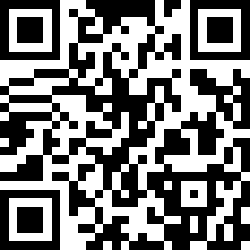
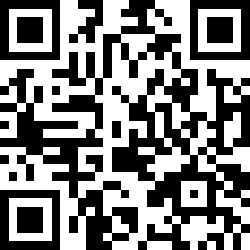
fix: 🐛 Aspside camp links (#16)

diff --git a/ai-as-lib/apside-camp-2024/index.html b/ai-as-lib/apside-camp-2024/index.html
@@ -1,4 +1,4 @@
-<!doctype html><html lang=en><head><meta charset=UTF-8><meta name=viewport content="width=device-width,initial-scale=1"><link rel="shortcut icon" href=./favicon.svg sizes=any type=image/svg+xml><title>👨💻 Utiliser l'IA<br>aussi simplement qu'une librairie 🤖</title><link rel=stylesheet href=slidesk.css><link href=./plugins/steps/steps.css rel=stylesheet><link href=./plugins/progress/progress.css rel=stylesheet><link href=./plugins/sbs/sbs.css rel=stylesheet><link href=./plugins/footer/footer.css rel=stylesheet><link href=./plugins/animate/animate.css rel=stylesheet><link rel=stylesheet href=assets/css/custom.css></head><body class=sd-app><section class="sd-slide cover-slide" data-num=0 data-slug=!slide-0><h2></h2><h1>👨💻 Utiliser l'IA<br>aussi simplement qu'une librairie 🤖</h1></section><section class="sd-slide love" data-num=1 data-slug=merciii-><h2>Merciii !!!</h2><div class="full-image-author love-image-author"><a href=https://unsplash.com/fr/@bel2000a>Belinda Fewings</a></div></section><section class="sd-slide slide-text" data-num=2 data-slug=faisons-connaissance><h2>Faisons connaissance</h2><p></p><figure class=sd-img style=float:right;margin-top:-16vh><img src=assets/images/phone-qr-code.png loading=lazy alt="" width=300><figcaption style=display:none></figcaption></figure><p></p><h1 style=margin:0;position:absolute;top:50%;left:50%;-ms-transform:translate(-50%,-50%);transform:translate(-50%,-50%)><a href="https://wall.sli.do/event/kFpTN3JaLxj8JQBaBAvgLe?section=26fa937e-d88d-4f16-b165-f51de804df6d">📊</a></h1></section><section class="sd-slide slide-text" data-num=3 data-slug=stphane-philippart><h2>Stéphane Philippart</h2><p></p><figure class=sd-img style=float:right;margin-top:-16vh><img src=assets/images/whoami.png loading=lazy alt="" width=494 height=155><figcaption style=display:none></figcaption></figure><p></p><ul><li>🏷 🥑 DeveloperAdvocate@OVHCloud 🦄</li><li>🏷 Co-créateur de TADx (meetups à Tours)</li><li>🏷 … et ex Apside Top !</li></ul><p></p><figure class=sd-img style=float:right;margin-top:-9vh><img src=assets/images/tadx.png loading=lazy alt=tadx width=304 height=165><figcaption style=display:none>tadx</figcaption></figure><p></p><ul><li>☕ Développeur Java dans les nuages ☁</li></ul><p></p><figure class=sd-img style=float:right><img src=assets/images/ours.png loading=lazy alt=ours width=437 height=414><figcaption style=display:none>ours</figcaption></figure><p></p><ul><li>🐦 <span class=twitter>@wildagsx</span></li><li>🔗 <a href=https://philippart-s.github.io/blog>https://philippart-s.github.io/blog</a></li><li>🐙 <a href=https://github.com/philippart-s/ >https://github.com/philippart-s/</a></li><li>💬 <a href=https://www.linkedin.com/in/philippartstephane/ >https://www.linkedin.com/in/philippartstephane/</a></li></ul></section><section class="sd-slide slide-text sbs" data-num=4 data-slug=un-chatbot-avec-plusieurs-langages><h2>Un chatbot … avec plusieurs langages</h2><p></p><figure class=sd-img style=display:block;margin-left:auto;margin-right:auto;width:50%><img src=assets/images/demos-archi.png loading=lazy alt="" width=1024><figcaption style=display:none></figcaption></figure><p></p><div style=display:flex;align-items:center><div style=flex-basis:65%><ul style=width:100%><li><div class=step>🛑 Chatbot bloquant</div></li><li><div class=step>💬 Chatbot "streaming"</div></li><li><div class=step>🧠 Chatbot avec mémoire</div></li><li><div class=step>🗃 Retrieval Augmented Generation</div></li></ul></div><div style=flex-basis:35% class=step>mais pas que ... 🤫</div></div></section><section class="sd-slide slide-text steps" data-num=5 data-slug=langchain><h2>LangChain</h2><p></p><figure class=sd-img style=float:right;margin-top:-16vh><img src=assets/images/LangChain-logo.png loading=lazy alt="" width=300><figcaption style=display:none></figcaption></figure><p></p><ul><li>✨ Le projet d'origine : LangChain</li><li>🐍 Technologies: Python et Javascript</li><li>🧩 SDK / Library</li><li>🧑💻 Faciliter l'adoption des LLM par les développeuses et développeurs</li><li>🔗 Accéder aux modèles à travers des API</li><li>🧰 Prompt templating, RAG, …</li></ul></section><section class="sd-slide slide-text steps" data-num=6 data-slug=langchain4j><h2>LangChain4J</h2><p></p><figure class=sd-img style=float:right;margin-top:-16vh><img src=assets/images/langchain4j-logo.svg loading=lazy alt="" width=300><figcaption style=display:none></figcaption></figure><p></p><ul><li>🔀 Variante du projet d'origine (il existe d'autres variantes comme LangChainGo)</li><li>🤝 Pas de lien avec la communauté LangChain</li><li>🧱 Une base commune avec des différences sur certaines fonctionnalités</li><li>🎯 Même but de simplification</li><li>⚡ Starter SpringBoot et extension Quarkus</li></ul></section><section class="sd-slide demos" data-num=7 data-slug=dmos><h2>Démos</h2><div class="full-image-author demo-image-author"><a href=https://www.illumination.com/ >Illumination Entertainment</a></div></section><section class="sd-slide slide-text steps" data-num=8 data-slug=-ai-endpoints><h2>🤖 AI Endpoints</h2><p></p><figure class=sd-img style=float:right><img src=assets/images/ai-endpoints.webp loading=lazy alt=ovhcloud-api><figcaption style=display:none>ovhcloud-api</figcaption></figure><p></p><ul><li>🧠 IA as a service</li><li>🧱 Llama, Mistral, Nvidia RIVA ASR, …</li><li>👩💻 Orienté développeuses / développeurs</li><li>☁ Cloud de confiance, vos données vous appartiennent</li><li>🔓 Respect les API standard, <u>unlock technologies</u></li><li>🔗 <a href=https://endpoints.ai.cloud.ovh.net/ >https://endpoints.ai.cloud.ovh.net/</a></li></ul></section><section class="sd-slide ovhcloud-world" data-num=9 data-slug=ovhcloud><h2>Ovhcloud</h2></section><section class=sd-slide data-num=10 data-slug=merci-><h2>Merci !!!</h2><table style=font-size:1.5vw;text-align:center;width:100%><tr><td align=center width=33%><img src=assets/images/qrcode-slides.png width=50% alt=""></td><td align=center width=33%><img src=assets/images/qrcode-feedbacks.png alt="" width=50%></td><td align=center width=33%><img src=assets/images/qrcode-sources.png alt="" width=50%></td></tr><tr><td>Slides<br><a href=https://ovh.to/FEMVcQr>https://ovh.to/FEMVcQr</a></td><td>Feedbacks<br><a href=https://ovh.to/G6fx9n3>https://ovh.to/G6fx9n3</a></td><td>Sources<br><a href=https://ovh.to/Zz5mEU3>https://ovh.to/Zz5mEU3</a></td></tr></table><p><img style=display:block;margin-left:auto;margin-right:auto;width:70% src=assets/images/minions.png></p></section><section class="sd-slide slide-text" data-num=11 data-slug=-liens><h2>🔗 Liens</h2><p></p><figure class=sd-img style=float:right;margin-top:-20vh><img src=assets/images/link.png loading=lazy alt="" height=202><figcaption style=display:none></figcaption></figure><p></p><p>🧠 <a href=https://endpoints.ai.cloud.ovh.net/ >https://endpoints.ai.cloud.ovh.net/</a></p><p>🧑💻 <a href=https://github.com/philippart-s/ai-as-lib>https://github.com/philippart-s/ai-as-lib</a></p><p>🦜 <a href=https://www.langchain.com/ >https://www.langchain.com/</a></p><p>☕ <a href=https://docs.langchain4j.dev/ >https://docs.langchain4j.dev/</a></p><p>⚡ <a href=https://quarkus.io/ >https://quarkus.io/</a></p></section><script src=slidesk.js></script><script src=./plugins/steps/steps.js></script><script src=./plugins/progress/progress.js></script><script src=./plugins/sbs/sbs.js></script><script src=./plugins/animate/animate.js></script><div id="sd-progress"></div><div class="footer">
+<!doctype html><html lang=en><head><meta charset=UTF-8><meta name=viewport content="width=device-width,initial-scale=1"><link rel="shortcut icon" href=./favicon.svg sizes=any type=image/svg+xml><title>👨💻 Utiliser l'IA<br>aussi simplement qu'une librairie 🤖</title><link rel=stylesheet href=slidesk.css><link href=./plugins/steps/steps.css rel=stylesheet><link href=./plugins/progress/progress.css rel=stylesheet><link href=./plugins/animate/animate.css rel=stylesheet><link href=./plugins/footer/footer.css rel=stylesheet><link href=./plugins/sbs/sbs.css rel=stylesheet><link rel=stylesheet href=assets/css/custom.css></head><body class=sd-app><section class="sd-slide cover-slide" data-num=0 data-slug=!slide-0><h2></h2><h1>👨💻 Utiliser l'IA<br>aussi simplement qu'une librairie 🤖</h1></section><section class="sd-slide love" data-num=1 data-slug=merciii-><h2>Merciii !!!</h2><div class="full-image-author love-image-author"><a href=https://unsplash.com/fr/@bel2000a>Belinda Fewings</a></div></section><section class="sd-slide slide-text" data-num=2 data-slug=faisons-connaissance><h2>Faisons connaissance</h2><p></p><figure class=sd-img style=float:right;margin-top:-16vh><img src=assets/images/phone-qr-code.png loading=lazy alt="" width=300><figcaption style=display:none></figcaption></figure><p></p><h1 style=margin:0;position:absolute;top:50%;left:50%;-ms-transform:translate(-50%,-50%);transform:translate(-50%,-50%)><a href="https://wall.sli.do/event/kFpTN3JaLxj8JQBaBAvgLe?section=26fa937e-d88d-4f16-b165-f51de804df6d">📊</a></h1></section><section class="sd-slide slide-text" data-num=3 data-slug=stphane-philippart><h2>Stéphane Philippart</h2><p></p><figure class=sd-img style=float:right;margin-top:-16vh><img src=assets/images/whoami.png loading=lazy alt="" width=494 height=155><figcaption style=display:none></figcaption></figure><p></p><ul><li>🏷 🥑 DeveloperAdvocate@OVHCloud 🦄</li><li>🏷 Co-créateur de TADx (meetups à Tours)</li><li>🏷 … et ex Apside Top !</li></ul><p></p><figure class=sd-img style=float:right;margin-top:-9vh><img src=assets/images/tadx.png loading=lazy alt=tadx width=304 height=165><figcaption style=display:none>tadx</figcaption></figure><p></p><ul><li>☕ Développeur Java dans les nuages ☁</li></ul><p></p><figure class=sd-img style=float:right><img src=assets/images/ours.png loading=lazy alt=ours width=437 height=414><figcaption style=display:none>ours</figcaption></figure><p></p><ul><li>🐦 <span class=twitter>@wildagsx</span></li><li>🔗 <a href=https://philippart-s.github.io/blog>https://philippart-s.github.io/blog</a></li><li>🐙 <a href=https://github.com/philippart-s/ >https://github.com/philippart-s/</a></li><li>💬 <a href=https://www.linkedin.com/in/philippartstephane/ >https://www.linkedin.com/in/philippartstephane/</a></li></ul></section><section class="sd-slide slide-text sbs" data-num=4 data-slug=un-chatbot-avec-plusieurs-langages><h2>Un chatbot … avec plusieurs langages</h2><p></p><figure class=sd-img style=display:block;margin-left:auto;margin-right:auto;width:50%><img src=assets/images/demos-archi.png loading=lazy alt="" width=1024><figcaption style=display:none></figcaption></figure><p></p><div style=display:flex;align-items:center><div style=flex-basis:65%><ul style=width:100%><li><div class=step>🛑 Chatbot bloquant</div></li><li><div class=step>💬 Chatbot "streaming"</div></li><li><div class=step>🧠 Chatbot avec mémoire</div></li><li><div class=step>🗃 Retrieval Augmented Generation</div></li></ul></div><div style=flex-basis:35% class=step>mais pas que ... 🤫</div></div></section><section class="sd-slide slide-text steps" data-num=5 data-slug=langchain><h2>LangChain</h2><p></p><figure class=sd-img style=float:right;margin-top:-16vh><img src=assets/images/LangChain-logo.png loading=lazy alt="" width=300><figcaption style=display:none></figcaption></figure><p></p><ul><li>✨ Le projet d'origine : LangChain</li><li>🐍 Technologies: Python et Javascript</li><li>🧩 SDK / Library</li><li>🧑💻 Faciliter l'adoption des LLM par les développeuses et développeurs</li><li>🔗 Accéder aux modèles à travers des API</li><li>🧰 Prompt templating, RAG, …</li></ul></section><section class="sd-slide slide-text steps" data-num=6 data-slug=langchain4j><h2>LangChain4J</h2><p></p><figure class=sd-img style=float:right;margin-top:-16vh><img src=assets/images/langchain4j-logo.svg loading=lazy alt="" width=300><figcaption style=display:none></figcaption></figure><p></p><ul><li>🔀 Variante du projet d'origine (il existe d'autres variantes comme LangChainGo)</li><li>🤝 Pas de lien avec la communauté LangChain</li><li>🧱 Une base commune avec des différences sur certaines fonctionnalités</li><li>🎯 Même but de simplification</li><li>⚡ Starter SpringBoot et extension Quarkus</li></ul></section><section class="sd-slide demos" data-num=7 data-slug=dmos><h2>Démos</h2><div class="full-image-author demo-image-author"><a href=https://www.illumination.com/ >Illumination Entertainment</a></div></section><section class="sd-slide slide-text steps" data-num=8 data-slug=-ai-endpoints><h2>🤖 AI Endpoints</h2><p></p><figure class=sd-img style=float:right><img src=assets/images/ai-endpoints.webp loading=lazy alt=ovhcloud-api><figcaption style=display:none>ovhcloud-api</figcaption></figure><p></p><ul><li>🧠 IA as a service</li><li>🧱 Llama, Mistral, Nvidia RIVA ASR, …</li><li>👩💻 Orienté développeuses / développeurs</li><li>☁ Cloud de confiance, vos données vous appartiennent</li><li>🔓 Respect les API standard, <u>unlock technologies</u></li><li>🔗 <a href=https://endpoints.ai.cloud.ovh.net/ >https://endpoints.ai.cloud.ovh.net/</a></li></ul></section><section class="sd-slide ovhcloud-world" data-num=9 data-slug=ovhcloud><h2>Ovhcloud</h2></section><section class=sd-slide data-num=10 data-slug=merci-><h2>Merci !!!</h2><table style=font-size:1.5vw;text-align:center;width:100%><tr><td align=center width=33%><img src=assets/images/qrcode-slides.png width=50% alt=""></td><td align=center width=33%><img src=assets/images/qrcode-feedbacks.png alt="" width=50%></td><td align=center width=33%><img src=assets/images/qrcode-sources.png alt="" width=50%></td></tr><tr><td>Slides<br><a href=https://ovh.to/8stq7u4>https://ovh.to/8stq7u4</a></td><td>Feedbacks<br><a href=https://ovh.to/G6fx9n3>https://ovh.to/G6fx9n3</a></td><td>Sources<br><a href=https://ovh.to/Zz5mEU3>https://ovh.to/Zz5mEU3</a></td></tr></table><p><img style=display:block;margin-left:auto;margin-right:auto;width:70% src=assets/images/minions.png></p></section><section class="sd-slide slide-text" data-num=11 data-slug=-liens><h2>🔗 Liens</h2><p></p><figure class=sd-img style=float:right;margin-top:-20vh><img src=assets/images/link.png loading=lazy alt="" height=202><figcaption style=display:none></figcaption></figure><p></p><p>🧠 <a href=https://endpoints.ai.cloud.ovh.net/ >https://endpoints.ai.cloud.ovh.net/</a></p><p>🧑💻 <a href=https://github.com/philippart-s/ai-as-lib>https://github.com/philippart-s/ai-as-lib</a></p><p>🦜 <a href=https://www.langchain.com/ >https://www.langchain.com/</a></p><p>☕ <a href=https://docs.langchain4j.dev/ >https://docs.langchain4j.dev/</a></p><p>⚡ <a href=https://quarkus.io/ >https://quarkus.io/</a></p></section><script src=slidesk.js></script><script src=./plugins/steps/steps.js></script><script src=./plugins/progress/progress.js></script><script src=./plugins/animate/animate.js></script><script src=./plugins/sbs/sbs.js></script><div id="sd-progress"></div><div class="footer">
   <div class="author-footer">@wildagsx</div>
   <div class="ovhcloud-footer">
     <img src="assets/images/OVHcloud_logo.png" alt="OVHcloud logo" style="width: 15%;" />

diff --git a/ai-as-lib/apside-camp-2024/slidesk.js b/ai-as-lib/apside-camp-2024/slidesk.js
@@ -3,7 +3,7 @@
       currentSlide: 0,
       slides: [],
       animationTimer: 300,
-      onSlideChange: function() {window.slidesk.prepareSteps();;window.slidesk.progressActive();;window.slidesk.sbs();;;window.slidesk.animateElements();},
+      onSlideChange: function() {window.slidesk.prepareSteps();;window.slidesk.progressActive();;window.slidesk.animateElements();;;window.slidesk.sbs();},
       env: {"PLUGINS":"steps,progress","WIDTH":"1920"},
       cwd: '/Users/sphilipp/dev/talks/ai-as-lib/slides/',
       lastAction: ""
